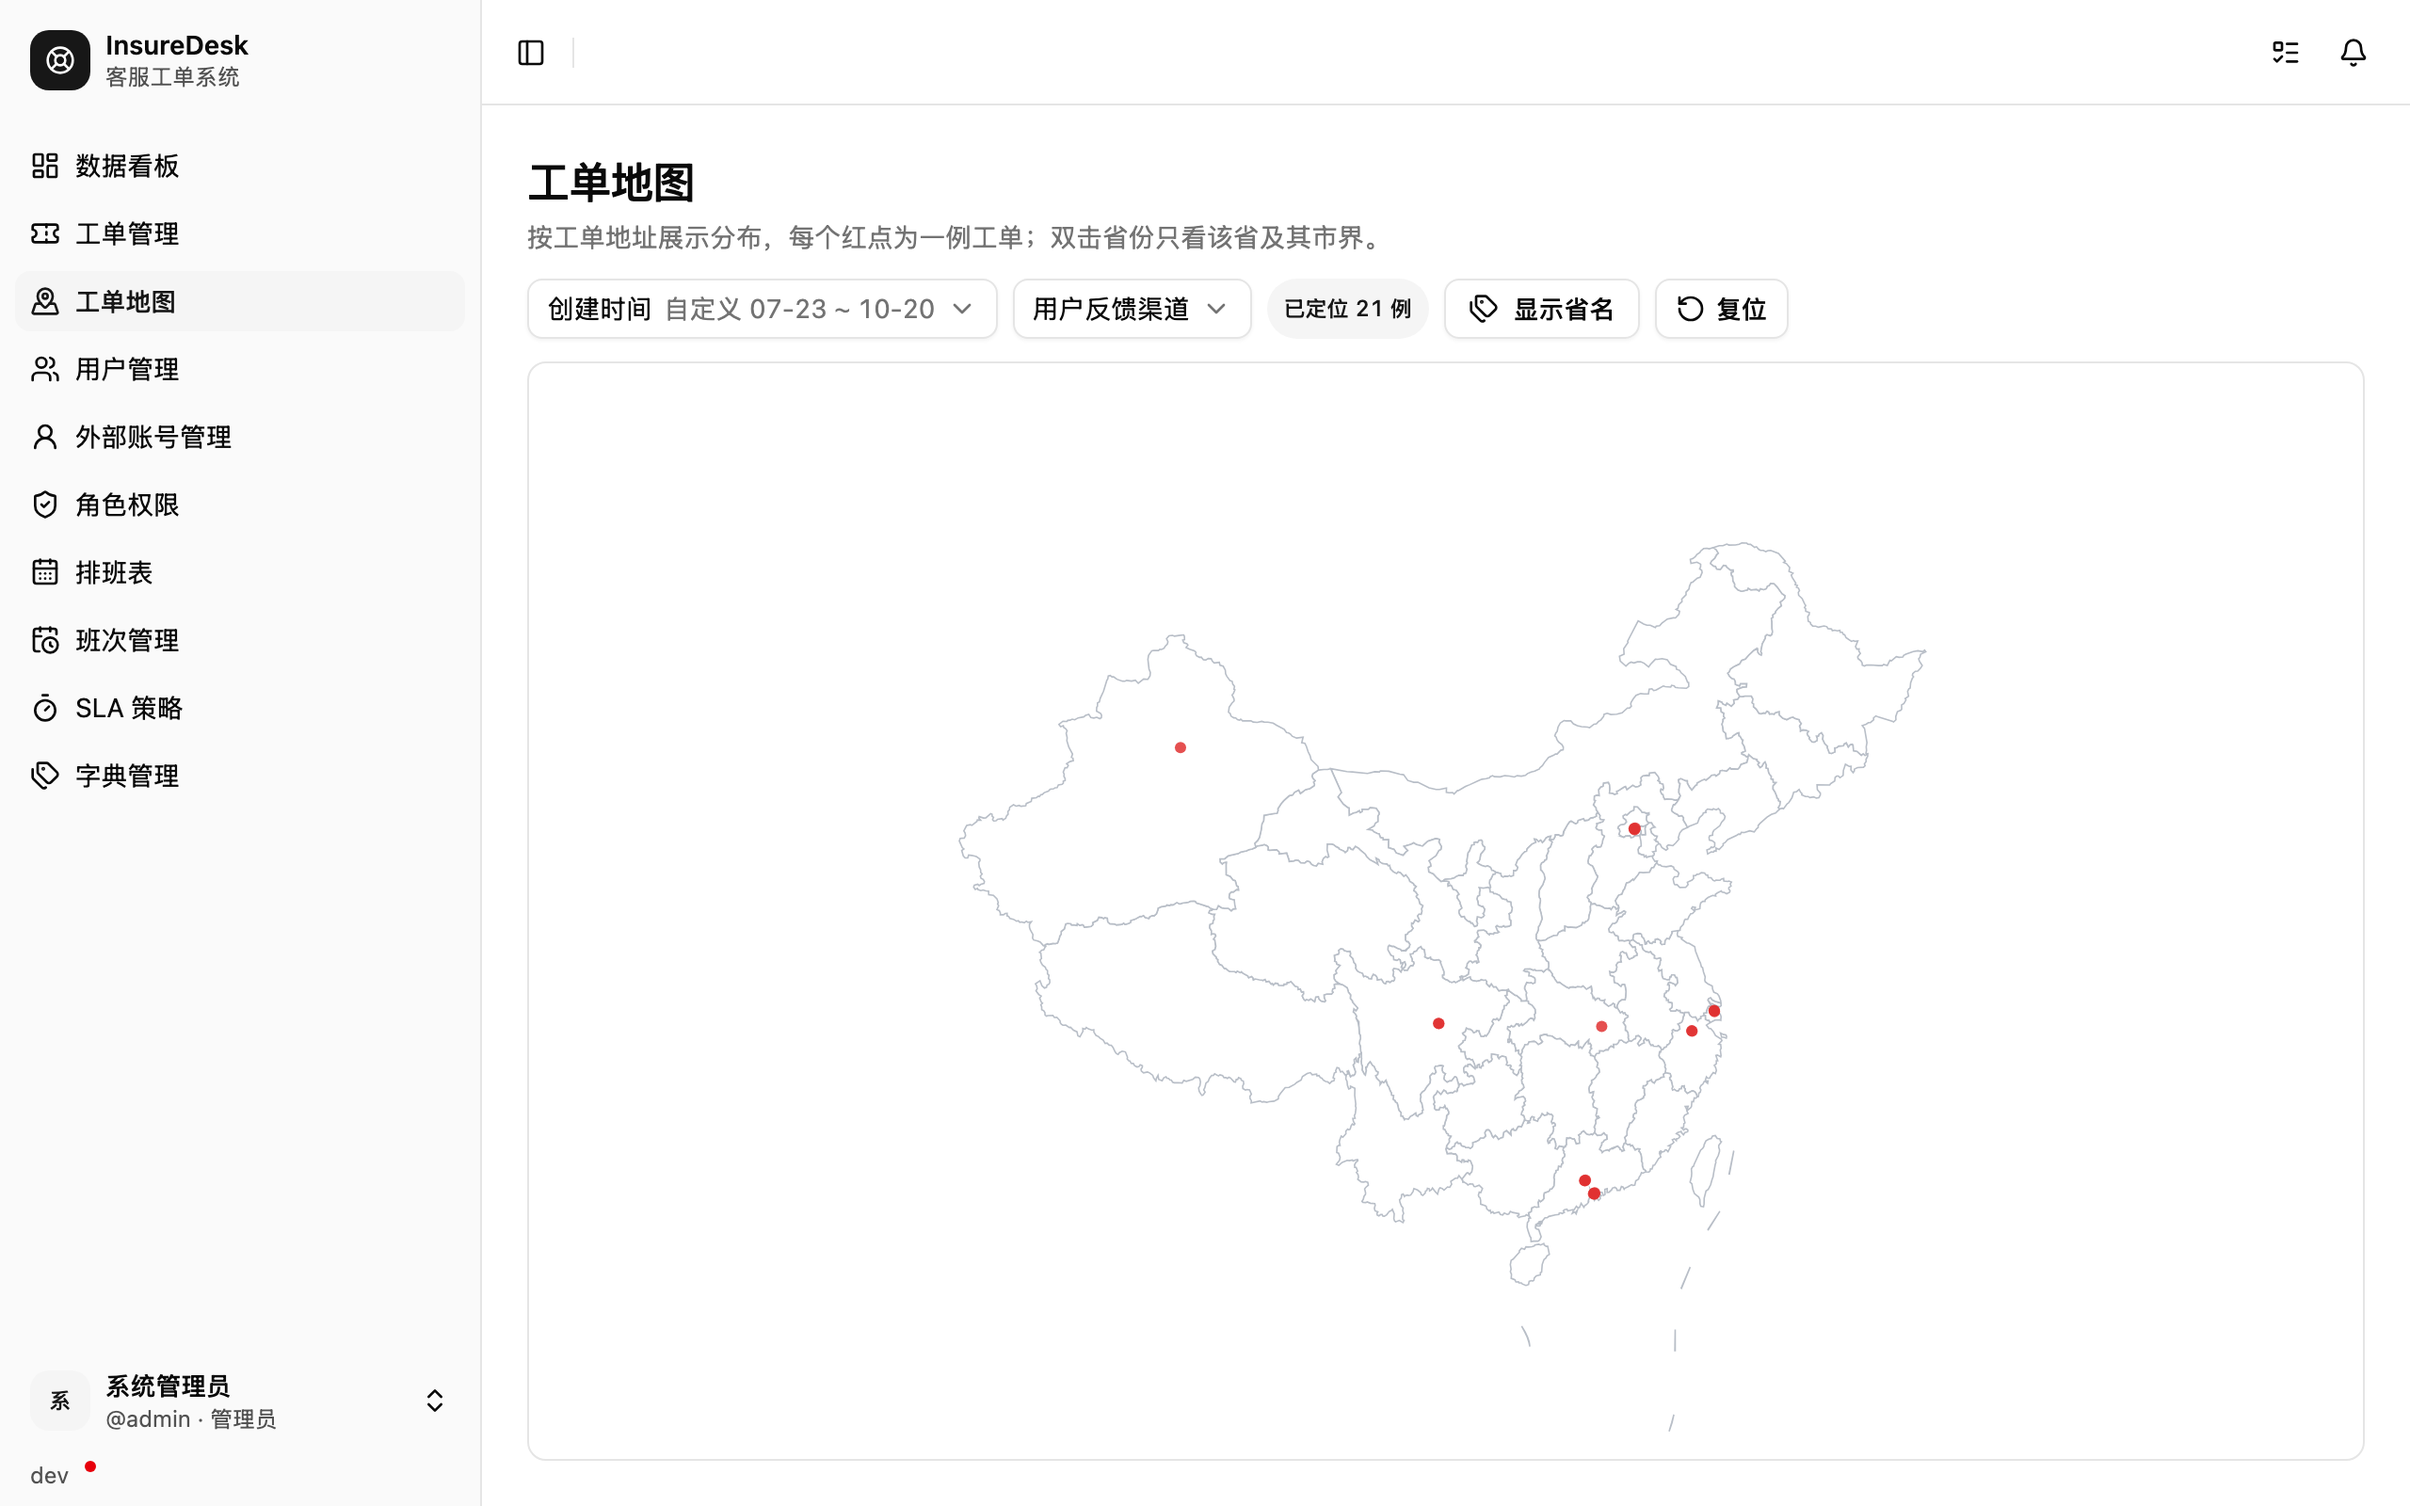
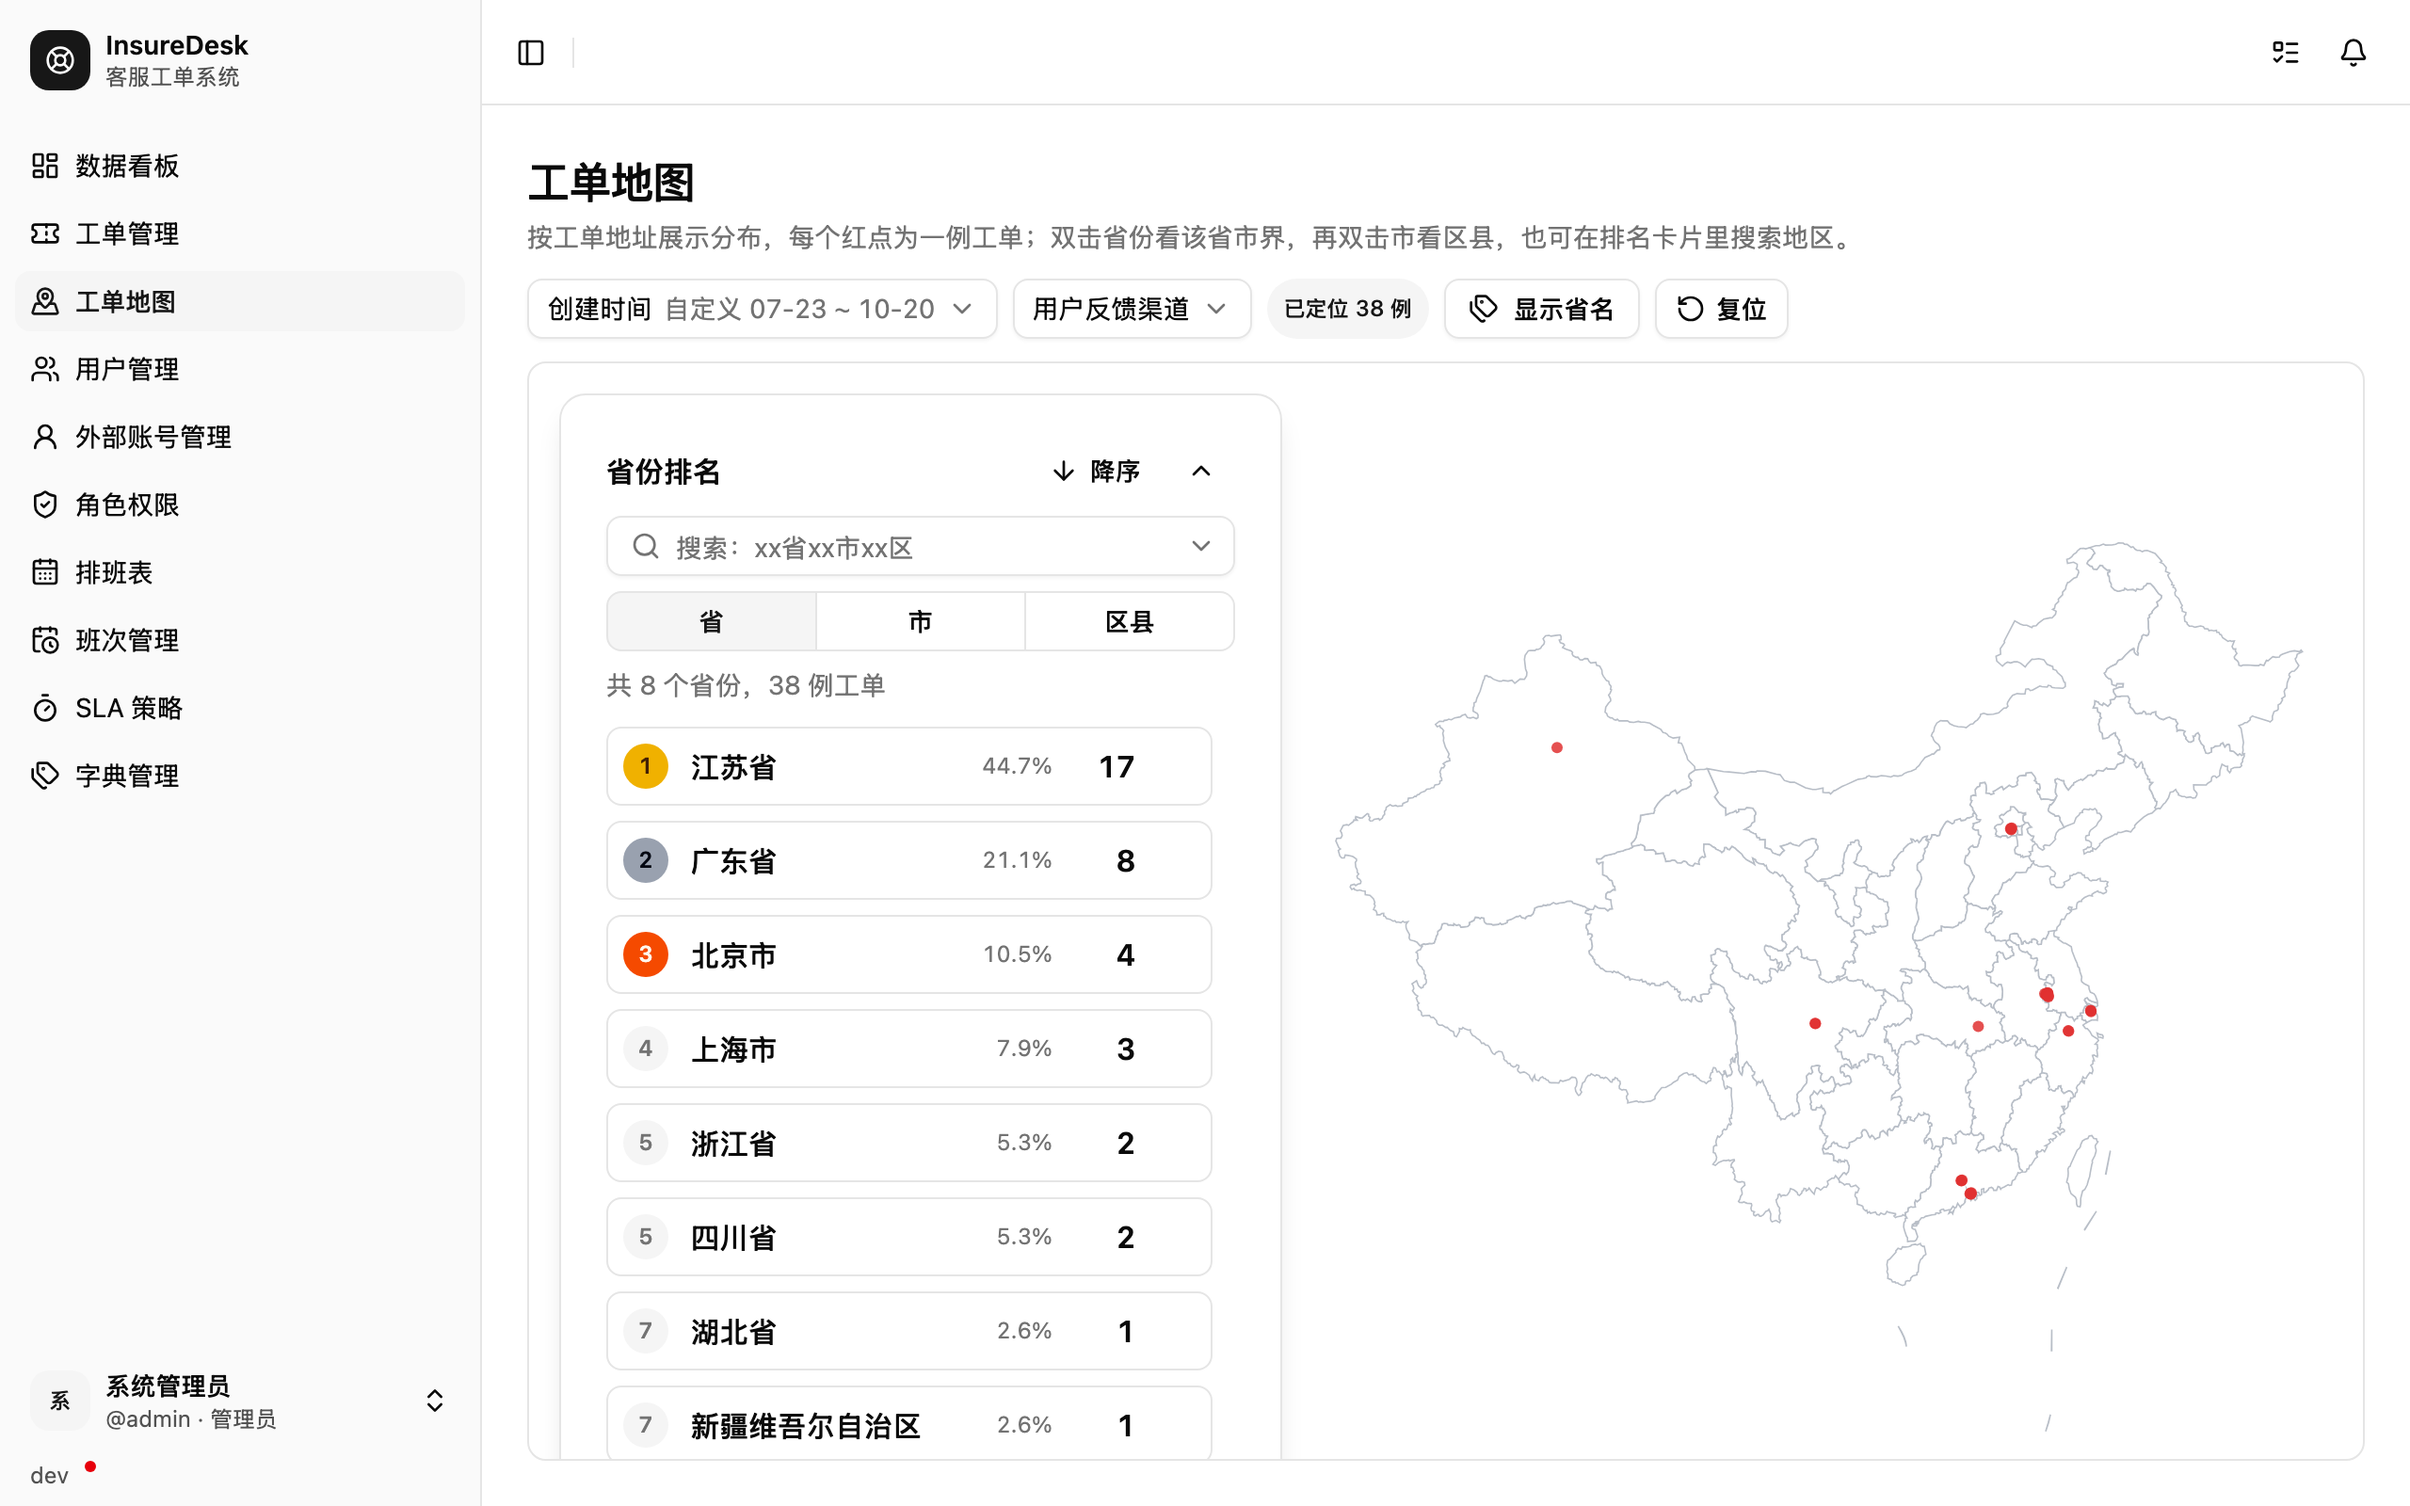
docs(changelog): v2026.10.0 更新日志 (#398)

diff --git a/changelog/v2026.10.0/ticket-map.setup.ts b/changelog/v2026.10.0/ticket-map.setup.ts
@@ -6,7 +6,19 @@ import { requireTicketKindId } from "../../apps/api/src/services/ticket-kind.ser
 const TICKET_ID_PREFIX = "clchangelogmap";
 const DAY_MS = 24 * 60 * 60 * 1000;
 
-// 地图页默认筛选近 90 天：演示工单锚在近 60 天内，东西横跨八省形成聚散对比。
+// ticket-map-ranking 截图复用本脚本，南京区县数据供其区县排名。
+const NANJING_DISTRICTS = [
+  ["320106", "鼓楼区", 4],
+  ["320104", "秦淮区", 3],
+  ["320115", "江宁区", 3],
+  ["320102", "玄武区", 2],
+  ["320105", "建邺区", 2],
+  ["320111", "浦口区", 1],
+  ["320113", "栖霞区", 1],
+  ["320114", "雨花台区", 1],
+] as const;
+
+// 地图页默认只筛近 90 天创建的工单，演示工单须全部落在该窗口内。
 const CLUSTERS = [
   {
     provinceCode: "440000",
@@ -80,6 +92,15 @@ const CLUSTERS = [
     districtName: "天山区",
     count: 1,
   },
+  ...NANJING_DISTRICTS.map(([districtCode, districtName, count]) => ({
+    provinceCode: "320000",
+    provinceName: "江苏省",
+    cityCode: "320100",
+    cityName: "南京市",
+    districtCode,
+    districtName,
+    count,
+  })),
 ] as const;
 
 const customerNames = [
@@ -105,7 +126,7 @@ const now = Date.now();
 let index = 0;
 for (const cluster of CLUSTERS) {
   for (let n = 0; n < cluster.count; n++) {
-    const anchor = new Date(now - (2 + index * 3) * DAY_MS);
+    const anchor = new Date(now - (2 + index * 1.5) * DAY_MS);
     const ticket = await prisma.ticket.create({
       data: {
         id: `${TICKET_ID_PREFIX}${String(index).padStart(2, "0")}`,

diff --git a/changelog/v2026.10.0/ticket-map.page.ts b/changelog/v2026.10.0/ticket-map.page.ts
@@ -1,0 +1,20 @@
+import type { Page } from "playwright";
+
+// 截图视口 1280 宽时排名卡片盖住地图西部，拖动地图避开卡片；拖完移出画布，免得悬浮提示入镜
+export async function panMap(page: Page): Promise<void> {
+  const box = await page.locator("canvas").first().boundingBox();
+  if (!box) throw new Error("地图画布未渲染");
+  const x = box.x + box.width * 0.6;
+  const y = box.y + box.height * 0.7;
+  await page.mouse.move(x, y);
+  await page.mouse.down();
+  await page.mouse.move(x + 200, y, { steps: 10 });
+  await page.mouse.up();
+  await page.mouse.move(box.x + box.width / 2, 1);
+  await page.waitForTimeout(500);
+}
+
+export default async function prepare(page: Page): Promise<void> {
+  await page.getByRole("button", { name: /^第 1 名 江苏省/ }).waitFor();
+  await panMap(page);
+}

diff --git a/changelog/v2026.10.0/ticket-map-ranking.page.ts b/changelog/v2026.10.0/ticket-map-ranking.page.ts
@@ -1,0 +1,15 @@
+import type { Page } from "playwright";
+import { panMap } from "./ticket-map.page.ts";
+
+export default async function prepare(page: Page): Promise<void> {
+  const search = page.getByRole("combobox", { name: "搜索地区" });
+  await search.click();
+  await search.fill("南京江宁");
+  await page.getByRole("option", { name: "江苏省 南京市 江宁区", exact: true }).click();
+  await page.getByRole("heading", { name: "工单地图 · 江苏省 · 南京市" }).waitFor();
+  await page.getByRole("listbox").waitFor({ state: "detached" });
+  await page.getByRole("button", { name: "显示区名" }).click();
+  await page.getByRole("button", { name: "隐藏区名" }).waitFor();
+  await page.waitForTimeout(300);
+  await panMap(page);
+}

diff --git a/changelog/v2026.10.0/ticket-map-ranking.setup.ts b/changelog/v2026.10.0/ticket-map-ranking.setup.ts
@@ -1,0 +1,1 @@
+import "./ticket-map.setup.ts";
